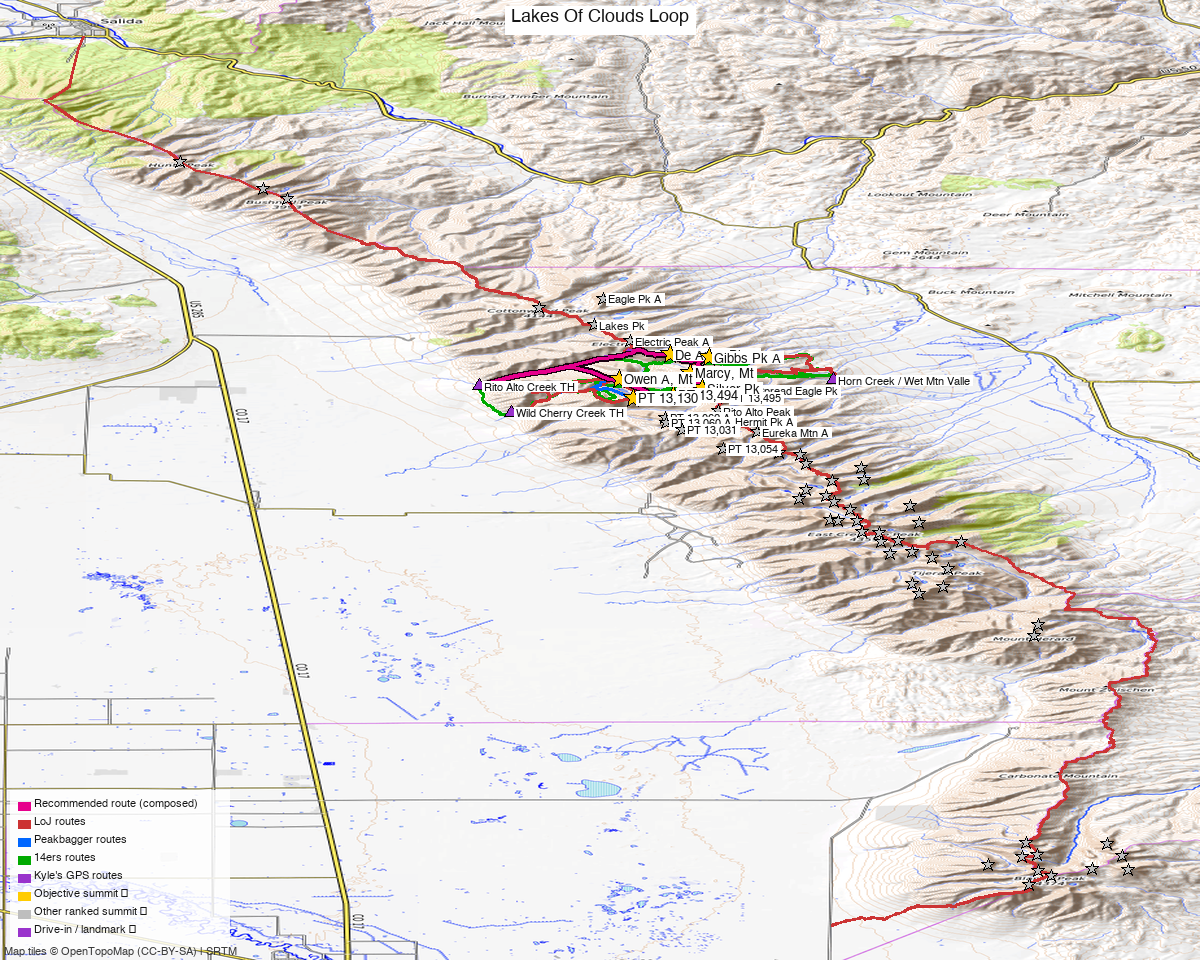
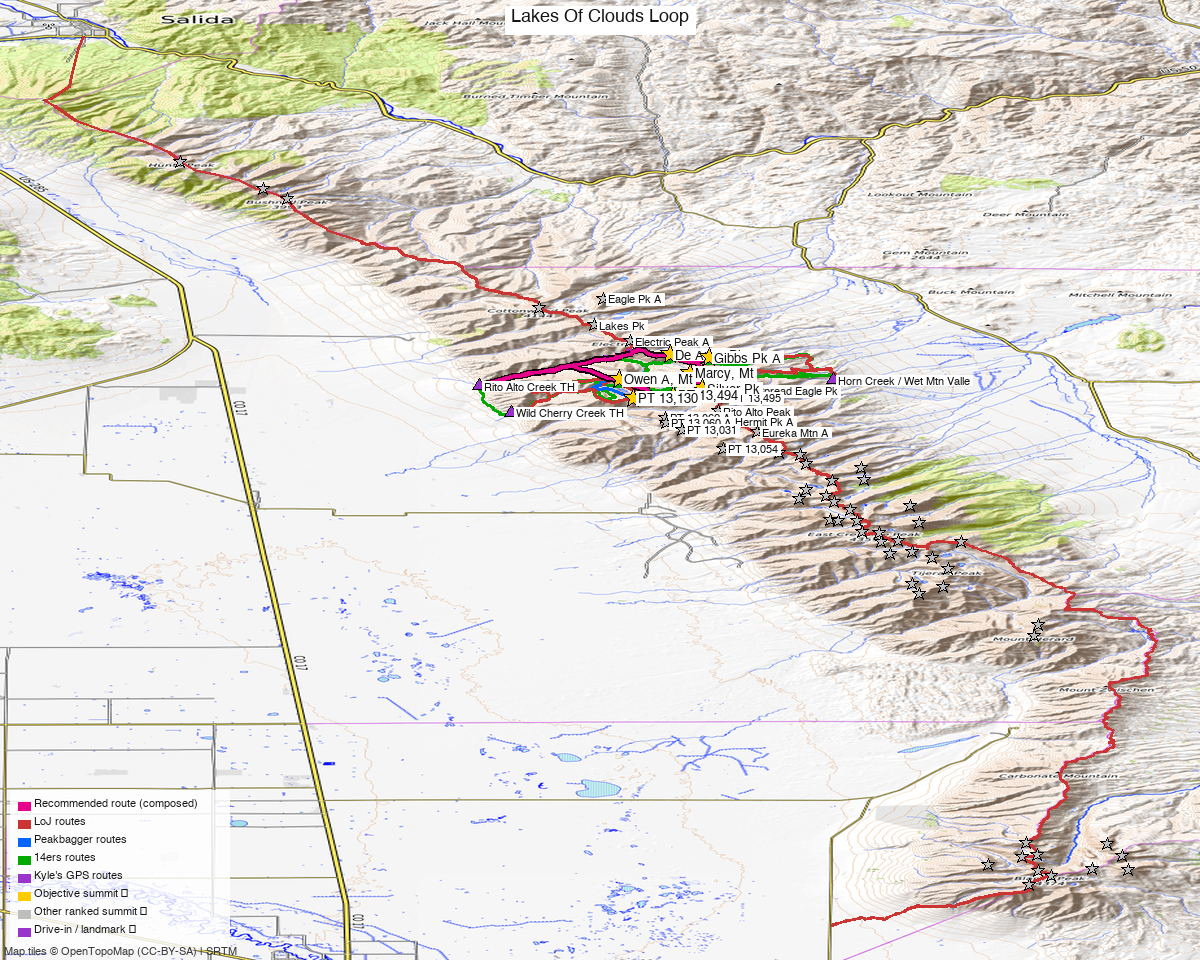
Fix straight-line cuts in cimarron + lakes routes; trip day routes default to --legs
The graph router minimizes distance and cut corners — cimarron's Fortress day shipped
a 0.77 mi straight jump (Kyle spotted it on the PNG). build_trip_day_routes now defaults
to the --legs router (stitches the REAL recorded tracks, follows the walked trail);
rebuilt cimarron's 3 day routes trail-following (max gap now 0.01 mi) and updated the
report's distances (now 28.6 mi total — the corner-cuts had under-measured). Also fixed
lakes_of_clouds_loop (had a 0.71 mi cut) to its real recorded loop via --from-track.

Documented the geometry-gate gap (FAIL_MI=1.0 only catches multi-mile teleports, let the
0.77 mi cut through as a warn) as a TODO — tightening to ~0.7 needs a hunts_peak route
decision first (its only clean recorded route is a 12.6 mi shuttle, not a loop).

diff --git a/scripts/build_trip_day_routes.py b/scripts/build_trip_day_routes.py
@@ -98,6 +98,9 @@ def main():
     ap = argparse.ArgumentParser()
     ap.add_argument("slug")
     ap.add_argument("--no-dem", action="store_true", help="pass through (noisy gain; faster)")
+    ap.add_argument("--graph", action="store_true",
+                    help="use the shortest-path graph router instead of the default trail-"
+                         "following --legs router (the graph router can cut corners)")
     ap.add_argument("--keep-subsets", action="store_true", help="don't delete the per-day objective files")
     args = ap.parse_args()
 
@@ -139,6 +142,12 @@ def main():
         cmd = [str(SCRIPTS / "build_recommended_route.py"), args.slug,
                "--peaks-only", str(subset_f), "--start", f"{th[0]},{th[1]}",
                "--out", str(out_f)]
+        if not args.graph:
+            # Default to the per-leg/whole-track router: it stitches the REAL recorded
+            # tracks (follows the walked trail), whereas the graph router minimizes
+            # distance and cuts corners — which shipped a 0.77 mi straight jump on
+            # cimarron's Fortress day. Pass --graph to force the shortest-path router.
+            cmd.append("--legs")
         if args.no_dem:
             cmd.append("--no-dem")
         print(f"\n=== day: {label} → {', '.join(w['name'].split(' (')[0] for w in sub)} "

diff --git a/scripts/check_route_geometry.py b/scripts/check_route_geometry.py
@@ -44,6 +44,11 @@ NS = "{http://www.topografix.com/GPX/1/1}"
 # A real leg's consecutive points are < ~0.1 mi apart. Composed routes can show
 # ~0.4-0.5 mi gaps where two source tracks are stitched at a shared waypoint; those
 # are acceptable. A multi-mile hop is always a router teleport.
+# TODO (Kyle, 2026-06-22): FAIL_MI=1.0 only catches multi-mile teleports — it let a
+# 0.77 mi corner-cut ship on cimarron's Fortress day as a mere warn. Lower to ~0.7 to
+# catch sub-mile corner-cuts, but that also flags hunts_peak (whose only clean recorded
+# route is a 12.6 mi point-to-point shuttle, not a loop) — needs a hunts route decision
+# first. build_trip_day_routes.py now defaults to --legs so trip day routes don't cut.
 WARN_MI = 0.5
 FAIL_MI = 1.0
 

diff --git a/docs/trips/cimarron_coxcomb.md b/docs/trips/cimarron_coxcomb.md
@@ -3,20 +3,20 @@ image: maps/cimarron_coxcomb.png
 range: San Juan
 drive_time: "~5h 30m"
 yds_class: "4 (PT 13,222 B + El Punto are Class 3–4 on the Middle Fork six; rest Class 2–3)"
-gain: "~24 mi / ~11,100 ft (8 peaks: a 6-peak loop + 2 individual climbs)"
+gain: "~29 mi / ~12,000 ft (8 peaks: a 6-peak loop + 2 individual climbs)"
 status: unclimbed
 regional_map_id: 06AR6BF
-dist_mi: 23.9
-gain_ft: 11114
+dist_mi: 28.6
+gain_ft: 12026
 class: 4
 peaks: 8
 days: 3
 drive_h: 5.5
 weather: "https://forecast.weather.gov/MapClick.php?lat=38.098&lon=-107.530"  # central Coxcomb; all 8 within ~4 mi
 days_detail:
-  - {label: "Middle Fork six", peaks: 6, dist_mi: 13.3, gain_ft: 5785, class: "4"}
-  - {label: "Fortress", peaks: 1, dist_mi: 6.0, gain_ft: 2518, class: "3"}
-  - {label: "Precipice", peaks: 1, dist_mi: 4.6, gain_ft: 2811, class: "3"}
+  - {label: "Middle Fork six", peaks: 6, dist_mi: 15.3, gain_ft: 6393, class: "4"}
+  - {label: "Fortress", peaks: 1, dist_mi: 7.3, gain_ft: 2845, class: "3"}
+  - {label: "Precipice", peaks: 1, dist_mi: 6.0, gain_ft: 2788, class: "3"}
 th_source: "recorded GPS-track start at Middle Fork Cimarron TH #227 (38.143,-107.525; day_six begins here) + West Fork Cimarron TH (38.127,-107.5598; Fortress/Precipice approach) — peaks.yml trailheads"
 class_source: "route beta — listsofjohn + peakbagger trip-report tracks (Class 3–4 on PT 13,222 B / El Punto; ≥ peak_db summit grade)"
 status_source: "peak_db ascents (Kyle — unclimbed)"
@@ -29,9 +29,9 @@ status_source: "peak_db ascents (Kyle — unclimbed)"
 !!! tip "At a glance — 3-day trip"
     **8 peaks** · **~5.5 h drive** · [weather](https://forecast.weather.gov/MapClick.php?lat=38.098&lon=-107.530)
 
-    - **Day 1 (Middle Fork six):** **13.3 mi** · **5,785 ft** gain · **Class 4** · 6 peaks
-    - **Day 2 (Fortress):** **6 mi** · **2,518 ft** gain · **Class 3** · 1 peak
-    - **Day 3 (Precipice):** **4.6 mi** · **2,811 ft** gain · **Class 3** · 1 peak
+    - **Day 1 (Middle Fork six):** **15.3 mi** · **6,393 ft** gain · **Class 4** · 6 peaks
+    - **Day 2 (Fortress):** **7.3 mi** · **2,845 ft** gain · **Class 3** · 1 peak
+    - **Day 3 (Precipice):** **6 mi** · **2,788 ft** gain · **Class 3** · 1 peak
 
 <!-- QUICKSTATS_END -->
 
@@ -57,10 +57,10 @@ status_source: "peak_db ascents (Kyle — unclimbed)"
 | Climbs | **3** — one six-peak loop + two individual peaks (relocate camp between the Middle & West Fork roads) |
 | Peaks | **8 ranked 13ers** — all unclimbed |
 | Class | **Up to 3–4** — on the Middle Fork six, **PT 13,222 B (NW ridge) and El Punto are Class 3–4** (per a recorded full-six TR); otherwise loose, rotten Cimarron Class 3 (incl. Fortress + Precipice). Helmet; a rope is reasonable. |
-| **Middle Fork six** | Heisshorn + PT 13,382 + PT 13,215 + El Punto + PT 13,340 A + PT 13,222 B — **~13.3 mi / ~5,785'** (DEM) |
-| **Fortress (solo)** | West Fork out-and-back — **~6.0 mi / ~2,518'** (DEM) |
-| **Precipice (solo)** | West Fork out-and-back — **~4.6 mi / ~2,811'** (DEM) |
-| **Trip total** | **~24 mi / ~11,100'** |
+| **Middle Fork six** | Heisshorn + PT 13,382 + PT 13,215 + El Punto + PT 13,340 A + PT 13,222 B — **~15.3 mi / ~6,393'** (DEM) |
+| **Fortress (solo)** | West Fork out-and-back — **~7.3 mi / ~2,845'** (DEM) |
+| **Precipice (solo)** | West Fork out-and-back — **~6.0 mi / ~2,788'** (DEM) |
+| **Trip total** | **~28.6 mi / ~12,026'** |
 | Trailheads | **Middle Fork Cimarron TH (#227, ~10,000')** and **West Fork Cimarron TH (~10,430')** — two separate fork roads |
 | Drive from Boulder | **~5h 30m** via US-50 to the Cimarron turnoff (E of Montrose) |
 | Land | **GMUG National Forest** (Uncompahgre Wilderness covers the high terrain) — no permits/fees, foot-only |
@@ -82,13 +82,13 @@ Both forks branch off the same Cimarron road, so the **camp move between days is
 
 ## Day plan
 
-### Middle Fork six · ~13.3 mi / ~5,785' · Class 3–4
+### Middle Fork six · ~15.3 mi / ~6,393' · Class 3–4
 The NE trio first (PT 13,222 B → PT 13,340 A → El Punto), then traverse to **Heisshorn**, and finish the south pair (PT 13,382 → PT 13,215). **PT 13,222 B (NW ridge) and El Punto are Class 3–4** (per the [Boggy B full-six TR](https://www.14ers.com/php14ers/tripreport.php?trip=22747)) — the cruxes; Heisshorn is loose **Class 3**; the other three PTs are Class 2/2+. **Full route, trip reports, and GPX: [Cimarron Remaining Six report](../peaks/cimarron_six.md).**
 
-### Precipice (solo) · ~4.6 mi / ~2,810' · Class 3
+### Precipice (solo) · ~6.0 mi / ~2,788' · Class 3
 A short, steep out-and-back from the **West Fork Cimarron TH** — faint social trail and an ultra-steep footpath up through forest to a loose Class 3 finish.
 
-### Fortress (solo) · ~6.0 mi / ~2,520' · Class 3
+### Fortress (solo) · ~7.3 mi / ~2,845' · Class 3
 A slightly longer out-and-back from the same **West Fork TH**, further S toward Coxcomb — loose Cimarron rock, Class 3.
 
 > Fortress and Precipice both start at the West Fork TH, so a fit party can do **both as separate out-and-backs in one long day** — but they are **not linked** on the ridge. Each is its own day route on the maps above.
@@ -128,7 +128,7 @@ A slightly longer out-and-back from the same **West Fork TH**, further S toward 
 
 ## TL;DR
 
-- **Kyle's 8 remaining Coxcomb-area 13ers as a trip** (~24 mi / ~11,100', loose Cimarron rock — **PT 13,222 B rated Class 4**, the rest Class 2–3): a six-peak Middle Fork loop **plus Fortress and Precipice as two individual West Fork climbs**.
+- **Kyle's 8 remaining Coxcomb-area 13ers as a trip** (~28.6 mi / ~12,026', loose Cimarron rock — **PT 13,222 B rated Class 4**, the rest Class 2–3): a six-peak Middle Fork loop **plus Fortress and Precipice as two individual West Fork climbs**.
 - **Two trailheads on two forks of the Cimarron road** — relocate camp between days (a short drive); the six-loop is the big day, Fortress + Precipice are shorter steep half-days (do them separately — deep notches break the connecting ridge).
 - **GMUG NF / Uncompahgre Wilderness**; ~5h30 drive (US-50 → Cimarron). Cell dead — InReach.
 - Detail + GPX: **[Middle Fork six](../peaks/cimarron_six.md)** · **Fortress + Precipice** (days 2–3 above).

diff --git a/docs/index.md b/docs/index.md
@@ -37,7 +37,7 @@ Every ranked Colorado 13er/14er — **green peak = has a report** (click it to o
 | [South San Juans 3-Day Weekend](trips/south_san_juans_3day.md) | San Juan | 2 | 23.4 | 9,500 | 5 | 3 | 1.7 | 5.2 | unclimbed |
 | [Cimarron "Remaining Six"](peaks/cimarron_six.md) | San Juan | 4 | 13.3 | 5,785 | 6 | 1 | 6 | 5.5 | unclimbed |
 | [PT 13,408 + PT 13,026](peaks/pt_13026_13408.md) | San Juan | 2 | 13.5 | 5,000 | 2 | 1 | 2 | 5.5 | unclimbed |
-| [Cimarron / Coxcomb](trips/cimarron_coxcomb.md) | San Juan | 4 | 23.9 | 11,114 | 8 | 3 | 2.7 | 5.5 | unclimbed |
+| [Cimarron / Coxcomb](trips/cimarron_coxcomb.md) | San Juan | 4 | 28.6 | 12,026 | 8 | 3 | 2.7 | 5.5 | unclimbed |
 | [PT 13,155 Group](peaks/pt_13155_group.md) | San Juan | 2 | — | 3,500 | 3 | 1 | 3 | 5.6 | unclimbed |
 | [Campbell Creek Pk](peaks/campbell_creek_pk.md) | San Juan | 2 | 5.7 | 3,443 | 1 | 1 | 1 | 5.75 | unclimbed |
 | [Rio Grande Pyramid Three](peaks/rio_grande_pyramid_three.md) | San Juan | 2–4 | 19.5 | 5,207 | 3 | 1 | 3 | 5.75 | unclimbed |